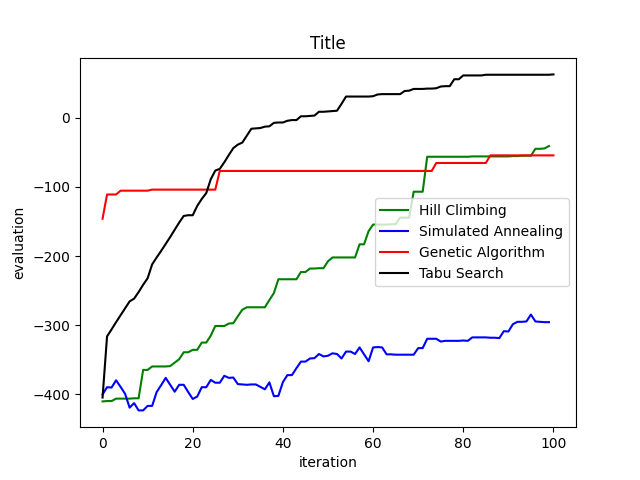
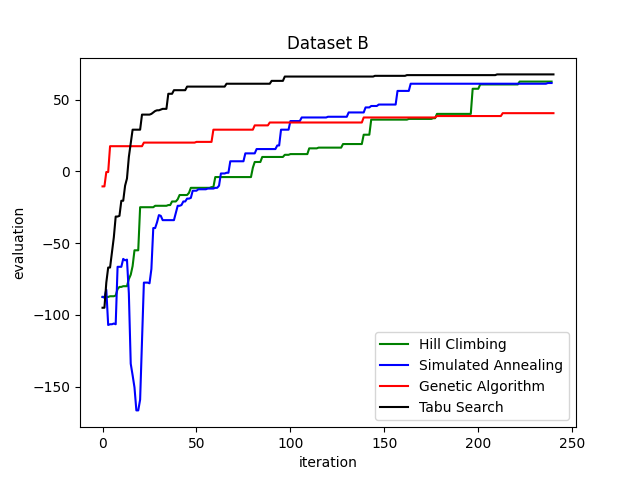
Final changes before delivery.

diff --git a/Proj1/main.py b/Proj1/main.py
@@ -1,9 +1,11 @@
-from algorithms import *
+from formulation.solution import *
 from algos.HillClimbing import HillClimbing
 from algos.SimulatedAnnealing import SimulatedAnnealing
 from algos.TabuSearch import TabuSearch
 from algos.GeneticAlgorithm import GeneticAlgorithm
-from utils import *
+from utils.utils import *
+import copy
+import matplotlib.pyplot as plt
 
 def print_menu():
     print("********************************************************************************")
@@ -36,10 +38,11 @@ if __name__ == "__main__":
 
     print("Random solution: ", sol.solution)
 
-    HC_algorithm = HillClimbing(copy.deepcopy(sol.solution), sol.neighbour3, sol.evaluate)
-    SA_algorithm = SimulatedAnnealing(copy.deepcopy(sol.solution), sol.neighbour3, sol.evaluate, cooling_algorithm)
-    TS_algorithm = TabuSearch(copy.deepcopy(sol.solution), sol.neighbour3, sol.evaluate)
-    GA_algorithm = GeneticAlgorithm(copy.deepcopy(sol.solution), sol.neighbour3, sol.evaluate, sol.team, pop_size, parents_algorithm, crossover_algorithm)
+    it = team.n_members * 30
+    HC_algorithm = HillClimbing(copy.deepcopy(sol.solution), sol.neighbour3, sol.evaluate, it)
+    SA_algorithm = SimulatedAnnealing(copy.deepcopy(sol.solution), sol.neighbour3, sol.evaluate, it, cooling_algorithm)
+    TS_algorithm = TabuSearch(copy.deepcopy(sol.solution), sol.neighbour3, sol.evaluate, it)
+    GA_algorithm = GeneticAlgorithm(copy.deepcopy(sol.solution), sol.neighbour3, sol.evaluate, it, sol.team, pop_size, parents_algorithm, crossover_algorithm)
     
     sol1, hill_evals = HC_algorithm.run()
     print("Best value with hill climbing was ", sol1, " with ", max(hill_evals))
@@ -58,7 +61,7 @@ if __name__ == "__main__":
     plt.plot(genetic_evals, 'r', label='Genetic Algorithm')
     plt.plot(tabu_evals, 'k', label='Tabu Search')
 
-    plt.title('Title')
+    plt.title("Dataset " + filename.upper())
 
     plt.xlabel('iteration')
 
@@ -68,7 +71,7 @@ if __name__ == "__main__":
 
     plt.savefig("output/iterations.png")
 
-    #plt.show()
+    plt.show()
 
     plt.clf()
 
@@ -79,12 +82,14 @@ if __name__ == "__main__":
 
     plt.bar(labels, solutions)
 
+    plt.title("Dataset " + filename.upper())
+
     plt.xlabel('algorithms')
 
     plt.ylabel('best evaluation')
 
     plt.savefig("output/best_evaluation.png")
 
-    #plt.show()
+    plt.show()
 
 

diff --git a/Proj1/algos/TabuSearch.py b/Proj1/algos/TabuSearch.py
@@ -2,16 +2,17 @@ import copy
 import random
 
 class TabuSearch:
-    def __init__(self, first, neighbour, evaluate):
+    def __init__(self, first, neighbour, evaluate, it):
         self.solution = first
         self.neighbour_function = neighbour
         self.evaluation_function = evaluate
+        self.iterations = it
 
     def tabu_tenure(self):
-        return 10
+        return random.randint(int(self.iterations / 10), int(self.iterations / 5))
 
     def neighbourhood_size(self):
-        return random.randint(5, 10)
+        return random.randint(3, 5)
 
     def tabu_neighbourhood(self, solution, tabus):
         neighbourhood = []
@@ -37,7 +38,7 @@ class TabuSearch:
         ev.append(self.evaluation_function(best_sol))
 
         it = 0
-        while it < 100: 
+        while it < self.iterations: 
             # Generates a neighbourhood around the current best solution
             neighbourhood = self.tabu_neighbourhood(best_sol, tabus)
             

diff --git a/Proj1/algos/GeneticAlgorithm.py b/Proj1/algos/GeneticAlgorithm.py
@@ -3,10 +3,11 @@ import copy
 import numpy as np
 
 class GeneticAlgorithm:
-    def __init__(self, first, neighbour, evaluate, team, pop_size, parents_algo, crossover_algo):
+    def __init__(self, first, neighbour, evaluate, it, team, pop_size, parents_algo, crossover_algo):
         self.solution = first
         self.neighbour_function = neighbour
         self.evaluation_function = evaluate
+        self.iterations = it
         self.team = team
         self.population_size = pop_size
         self.parents_algorithm = parents_algo
@@ -18,7 +19,7 @@ class GeneticAlgorithm:
         population = self.create_initial_population()
 
         it = 0
-        while it < 100:
+        while it < self.iterations:
             it += 1
 
             population, current_best = self.generate_next_population(population)

diff --git a/Proj1/algos/HillClimbing.py b/Proj1/algos/HillClimbing.py
@@ -1,10 +1,11 @@
 import copy
 
 class HillClimbing:
-    def __init__(self, first_solution, neighbour_function, evaluation_function):
-        self.solution = first_solution
-        self.neighbour_function = neighbour_function
-        self.evaluation_function = evaluation_function
+    def __init__(self, first, neighbour, evaluation, it):
+        self.solution = first
+        self.neighbour_function = neighbour
+        self.evaluation_function = evaluation
+        self.iterations = it
 
     def run(self):
         ev = []
@@ -13,7 +14,7 @@ class HillClimbing:
         best_sol_eval = 0
 
         it = 0
-        while it < 100:
+        while it < self.iterations:
             it += 1
 
             neighbour = self.neighbour_function(copy.deepcopy(solution))

diff --git a/Proj1/algos/SimulatedAnnealing.py b/Proj1/algos/SimulatedAnnealing.py
@@ -3,10 +3,11 @@ import copy
 import random
 
 class SimulatedAnnealing:
-    def __init__(self, first, neighbour, evaluate, cooling):
+    def __init__(self, first, neighbour, evaluate, it, cooling):
         self.solution = first
         self.neighbour_function = neighbour
         self.evaluation_function = evaluate
+        self.iterations = it
         self.cooling_option = cooling
     
     def T_schedule(self, T0, it):
@@ -29,7 +30,7 @@ class SimulatedAnnealing:
         it = 0
         T0 = 1000
 
-        while it < 100:
+        while it < self.iterations:
             T = self.T_schedule(T0, it)
             neighbour = self.neighbour_function(copy.deepcopy(solution))
             evaluation = self.evaluation_function(neighbour)

diff --git a/Proj1/formulation/formulation.py b/Proj1/formulation/formulation.py
@@ -59,13 +59,10 @@ class Project:
         for member in solution_members:
             member_skills_matched = 0
             for role in range(self.n_roles):
-                if self.roles[role].name not in needed_skills:
+                if self.roles[role].name not in needed_skills or member.on_project:
                     continue
                 
                 if member.hasSkill(self.roles[role]):
-                    if member.on_project:
-                        continue
-
                     roles_matched += 1
                     member_skills_matched += 1
                     assigned_members.append(member)

diff --git a/Proj1/utils/utils.py b/Proj1/utils/utils.py
@@ -1,4 +1,4 @@
-from formulation import *
+from formulation.formulation import *
 
 def read_dataset(filename):
   

diff --git a/Proj1/README.md b/Proj1/README.md
@@ -1,0 +1,44 @@
+# Libraries
+
+If you do not have any of the following libraries installed, please run the command:
+
+|     Name    |   Command   |
+| ----------- | ----------- |
+| mathplotlib | `pip install mathplotlib`|
+| numpy       | `pip install numpy` |
+
+# File structure
+
+- Dataset files are located at [input](input/) 
+- Implementation of the algorithms is done at [algos](algos/)
+- Neighbourhood generation and evaluation functions are developped at [solution](formulationsolution.py)
+- Logic for reading from dataset and structuring classses is at [utils](utils/utils.py)
+
+# Compilation and Execution
+
+Run `python3 -B main.py` or `py -B main.py` on the terminal.
+
+# Usage
+
+After running any of the commands above, you should be presented with some instructions on how to run the program:
+
+1. You should input the dataset letter without extension( from 'a' to 'c').
+2. After that, you should choose the cooling algorithm to be used for the Simulated Annealing.
+3. Choose the size of the population to be used in the Genetic Algorithm
+4. Choose a selection method for the Genetic Algorithm, either tournament or roulette.
+5. Choose a crossover function for the Genetic Algorithm
+
+# Results and Plots
+
+After following the steps mentioned above, the solution for each algorithm is going to be shown in the terminal, with the following syntax:
+
+```
+[[0, 0, 0, 0], [0, 1, 0, 0], [1, 1, 0, 0]]
+```
+
+The team is composed by 4 members and has been assigned 3 projects. The first one could not be completed due to lack of skills from the members. Member number 2 has been assigned to both second and third projects, while member number 1 has been also assigned to the third project.
+
+Two plots are presented:
+- [iterations](output/iterations.png) details the evalution of each algorithm throughout the many iterations. 
+- [best_evaluation](output/best_evaluation.png) is a bar chart that has the best evaluation that each of the algorithms manage to hit.
+
